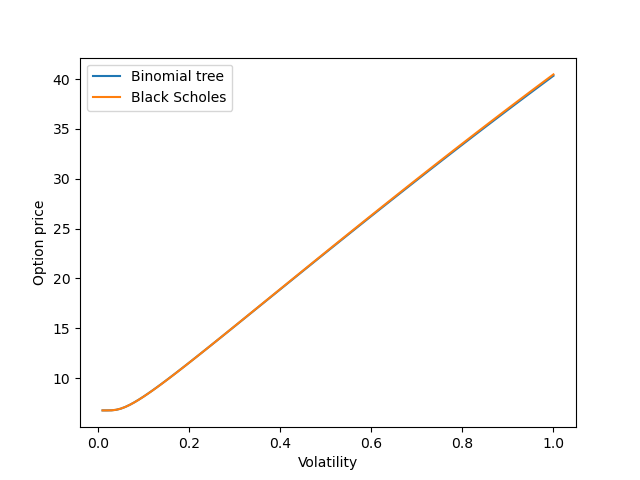
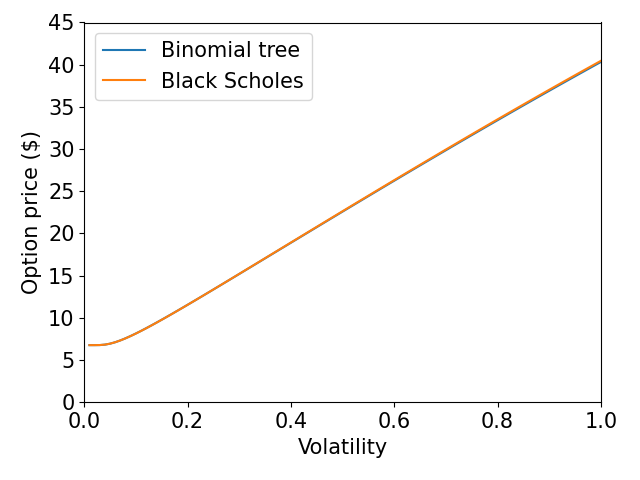
peter plots

diff --git a/ass_1.py b/ass_1.py
@@ -3,6 +3,9 @@ import matplotlib.pyplot as plt
 from scipy.stats import norm
 import scipy.stats as stats
 
+
+plt.rcParams.update({'font.size': 15})
+
 def buildTree(S, vol, T, N):
     dt = T / N
 
@@ -180,19 +183,26 @@ def part_2():
 
         tree_list.append(price[0, 0])
         analytical_list.append(priceAnalytical)
-        error_list.append(np.abs(price[0, 0] - priceAnalytical))
+        error_list.append((price[0, 0] - priceAnalytical)/priceAnalytical)
 
     plt.plot(sigma_list, tree_list, label="Binomial tree")
     plt.plot(sigma_list, analytical_list, label="Black Scholes")
     plt.xlabel("Volatility")
-    plt.ylabel("Option price")
+    plt.ylabel("Option price ($)")
+    plt.xlim(0, 1)
+    plt.ylim(0, 45)
     plt.legend()
+    plt.tight_layout()
     plt.savefig("volatility.png")
     plt.clf()
 
     plt.plot(sigma_list, error_list)
     plt.xlabel("Volatility")
-    plt.ylabel("Error")
+    plt.ylabel("Relative error")
+    plt.xlim(0, 1)
+    plt.ylim(-0.15, 0.05)
+    # plt.yticks(np.arange(0, 0.16, 0.03))
+    plt.tight_layout()
     plt.savefig("volatility_error.png")
     plt.clf()
 
@@ -204,17 +214,20 @@ def part_3():
     d2 = d1 - sigma * np.sqrt(T)
     priceAnalytical = S * norm.cdf(d1) - K * np.exp(-r * T) * norm.cdf(d2)
 
-    for N in np.arange(1, 100):
+    for N in np.arange(1, 101):
         tree = buildTree(S, sigma, T, N)
         price = valueOptionMatrix(tree, T, r, K, sigma, N)
 
         diff = np.abs(price[0, 0] - priceAnalytical)
         diff_list.append(diff)
-
-    plt.plot(np.arange(1, 100), diff_list)
+    plt.plot(np.arange(1, 101), diff_list)
     plt.xlabel("Number of steps in binomial tree")
-    plt.ylabel("Error")
+    plt.ylabel("Error ($)")
+    plt.xlim(0, 100)
+    plt.ylim(0, 1.75)
+    plt.tight_layout()
     plt.savefig("diff.png")
+    plt.show()
     plt.clf()
 
 def part_4():
@@ -233,11 +246,14 @@ def part_4():
         delta_list_tree.append(delta_tree)
         delta_list_analytical.append(delta_analytical)
 
-    plt.plot(sigma_list, delta_list_tree, label="Binomial tree")
-    plt.plot(sigma_list, delta_list_analytical, label="Black Scholes", linestyle="--")
+    plt.plot(sigma_list, delta_list_tree, label="Binomial tree", color="red")
+    plt.plot(sigma_list, delta_list_analytical, label="Black Scholes", linestyle="--", color="blue")
     plt.xlabel("Volatility")
     plt.ylabel("Delta")
+    plt.xlim(0, 1)
+    plt.ylim(0.6, 1)
     plt.legend()
+    plt.tight_layout()
     plt.savefig("delta.png")
     plt.clf()
 
@@ -260,31 +276,43 @@ def part_5():
             diff_list.append(price_american[0, 0] - price_european[0, 0])
 
         if call:
-            plt.plot(sigma_list, european_list, label="European")
-            plt.plot(sigma_list, american_list, label="American", linestyle="--")
+            plt.plot(sigma_list, european_list, label="European", color="blue")
+            plt.plot(sigma_list, american_list, label="American", linestyle="--", color="red")
             plt.xlabel("Volatility")
-            plt.ylabel("Option price")
+            plt.ylabel("Option pric ($)")
+            plt.xlim(0, 1)
+            plt.ylim(0, 45)
             plt.legend()
+            plt.tight_layout()
             plt.savefig("american_european_call.png")
             plt.clf()
 
             plt.plot(sigma_list, diff_list)
             plt.xlabel("Volatility")
-            plt.ylabel("Difference")
+            plt.ylabel("Difference (American - European) ($)")
+            plt.xlim(0, 1)
+            plt.ylim(-1, 1)
+            plt.tight_layout()
             plt.savefig("american_european_diff_call.png")
             plt.clf()
         else:
-            plt.plot(sigma_list, european_list, label="European")
-            plt.plot(sigma_list, american_list, label="American")
+            plt.plot(sigma_list, european_list, label="European", color="blue")
+            plt.plot(sigma_list, american_list, label="American", color="red")
             plt.xlabel("Volatility")
-            plt.ylabel("Option price")
+            plt.ylabel("Option price ($)")
+            plt.xlim(0, 1)
+            plt.ylim(0, 35)
             plt.legend()
+            plt.tight_layout()
             plt.savefig("american_european_put.png")
             plt.clf()
 
             plt.plot(sigma_list, diff_list)
             plt.xlabel("Volatility")
-            plt.ylabel("Difference")
+            plt.ylabel("Difference (American - European) ($)")
+            plt.xlim(0, 1)
+            plt.ylim(0, 1)
+            plt.tight_layout()
             plt.savefig("american_european_diff_put.png")
             plt.clf()
 
@@ -361,10 +389,10 @@ def part33():
 
 # part_1()
 # part_2()
-# part_3()
+part_3()
 # part_4()
 # part_5()
-part33()
+# part33()
 
 # sigma = 0.2
 # tree = buildTree(S, sigma, T, N)
